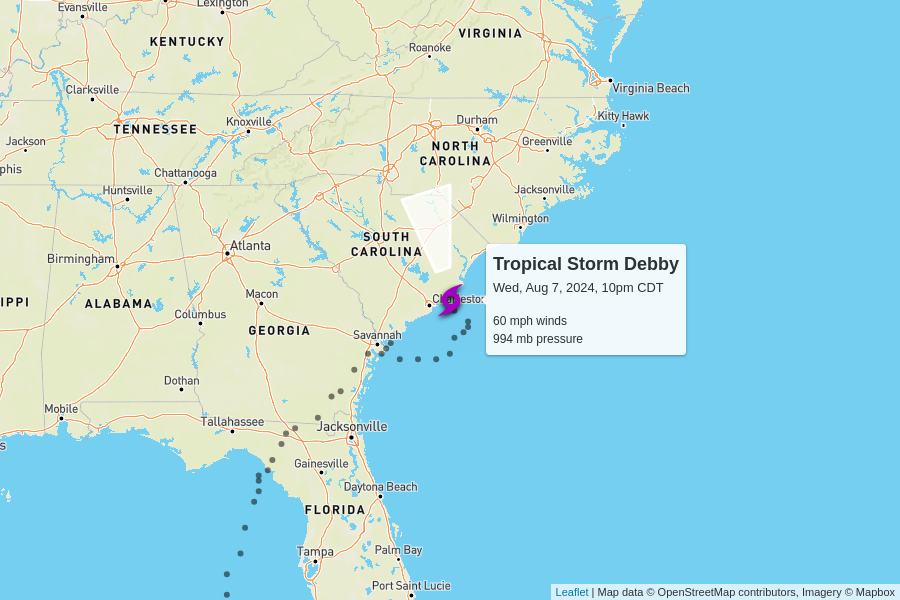
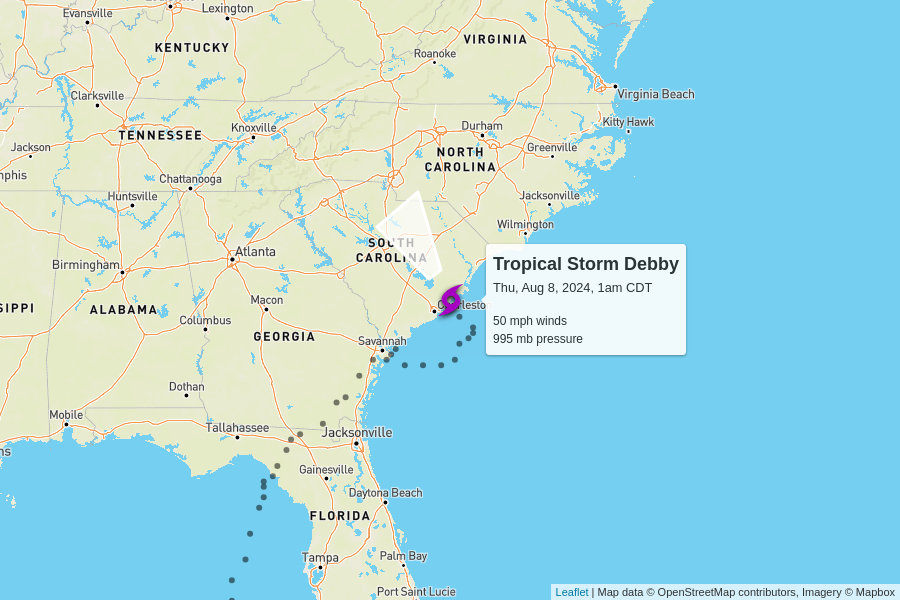
automatic update

diff --git a/docs/index.html b/docs/index.html
@@ -102,7 +102,7 @@
         <td colspan="6" class="storm category-0" >
           <h2>
             Tropical Storm Debby
-            <p class="updated">last updated <span data-time>2024-08-08T03:00:00.000Z</span></p>
+            <p class="updated">last updated <span data-time>2024-08-08T06:00:00.000Z</span></p>
           </h2>
         </td>
       </tr>
@@ -117,12 +117,12 @@
       </tr>
       <tr>
         <td class="spacer"></td>
-        <td>60 mph<br>0 mph since last update</td>
-        <td>994 mb<br>0 mb since last update</td>
+        <td>50 mph<br>-10 mph since last update</td>
+        <td>995 mb<br>+1 mb since last update</td>
         <td>
-          3 mph to the north-northwest
+          5 mph to the northwest
           <br/>
-          <span style="display: inline-block; font-size: 1.5em; transform: rotate(345deg);">↑</span>
+          <span style="display: inline-block; font-size: 1.5em; transform: rotate(325deg);">↑</span>
         </td>
         <td><a href="https://raw.githubusercontent.com/mgwalker/atlantic-hurricanes/main/data/csv/AL042024.csv">AL042024.csv</a></td>
         <td><a href="https://www.nhc.noaa.gov/archive/2024/DEBBY.shtml?">NHC advisories</a></td>
